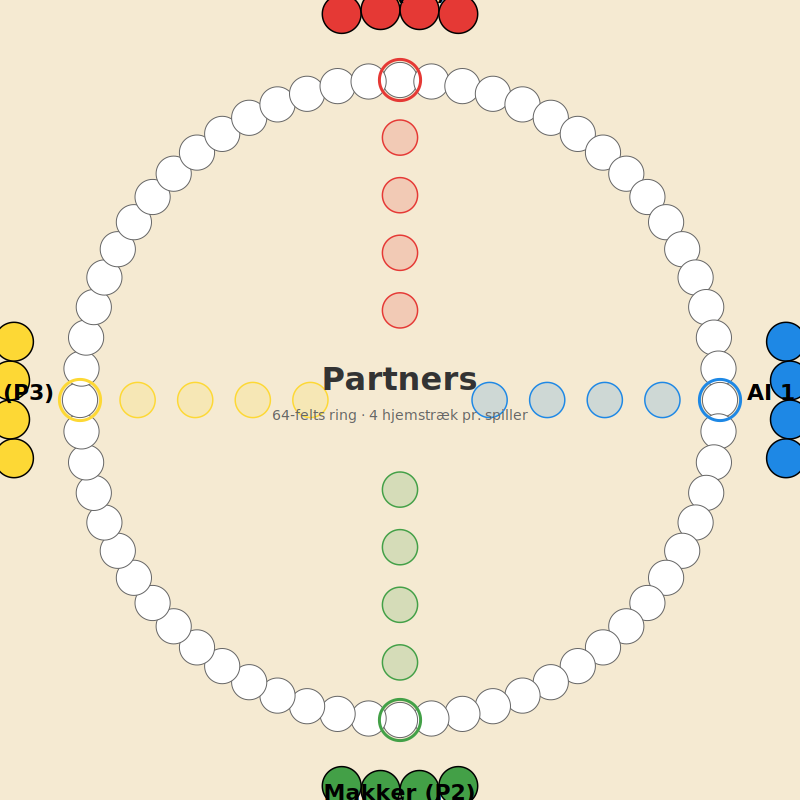
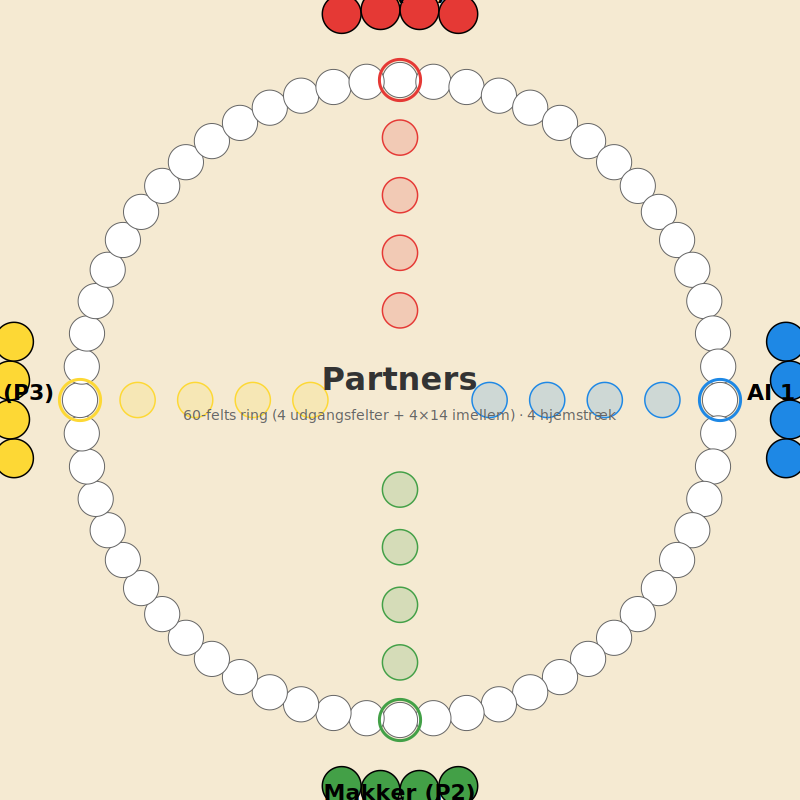
Tilpas bræt til 60 felter og tilføj mockup
- BoardGeometry default trackLength = 60 (4 udgangsfelter + 4×14 mellem)
- Opdateret board-preview.svg/png
- docs/mockup-game.svg/png: spil-skærm midt i en runde med valgt kort
  og fremhævet brik

diff --git a/lib/models/board.dart b/lib/models/board.dart
@@ -1,10 +1,10 @@
 /// Brættets geometri.
 ///
-/// Banen er en ring med [trackLength] felter (default 64 = 16 felter pr. spiller).
-/// Hver spiller har et udgangsfelt på `playerIndex * 16` (dvs. 0, 16, 32, 48).
-/// Hjemstrækket har 4 felter.
+/// Banen er en ring med [trackLength] felter (default 60 = 4 udgangsfelter +
+/// 14 mellemfelter mellem hver). Hver spiller har et udgangsfelt på
+/// `playerIndex * 15` (dvs. 0, 15, 30, 45). Hjemstrækket har 4 felter.
 class BoardGeometry {
-  const BoardGeometry({this.trackLength = 64, this.homeStretchLength = 4});
+  const BoardGeometry({this.trackLength = 60, this.homeStretchLength = 4});
 
   final int trackLength;
   final int homeStretchLength;
